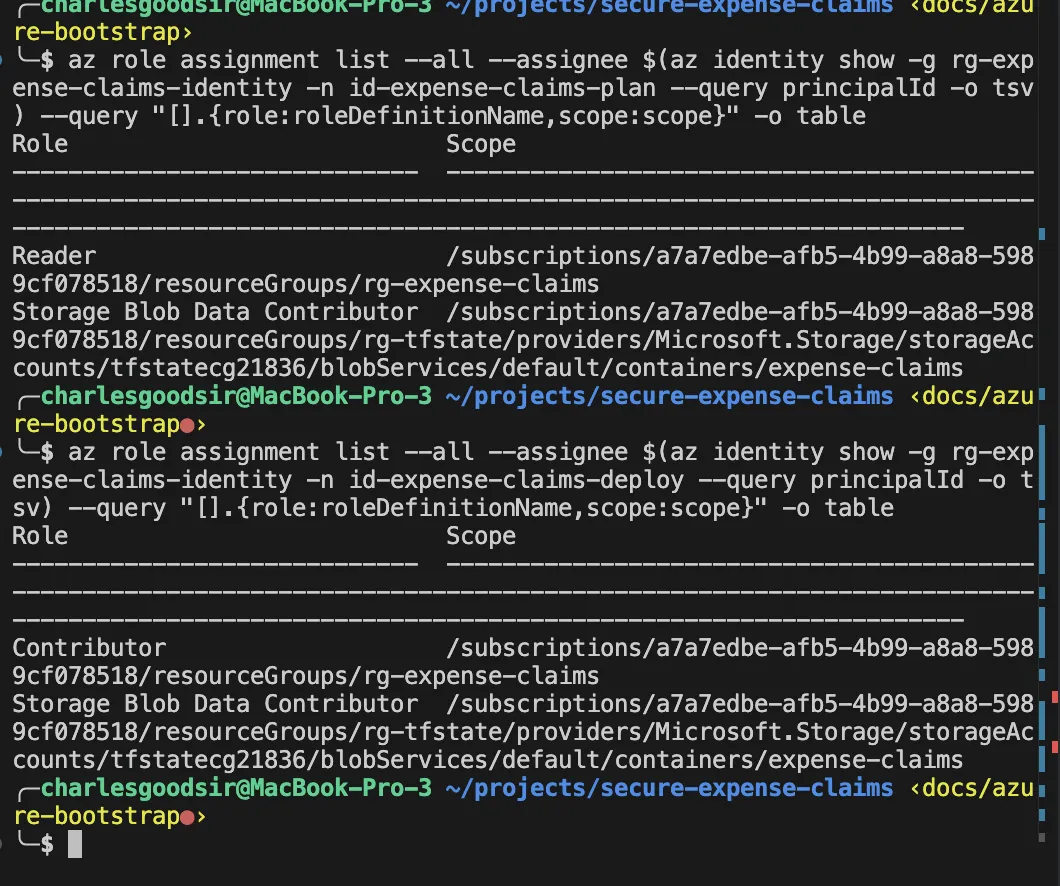
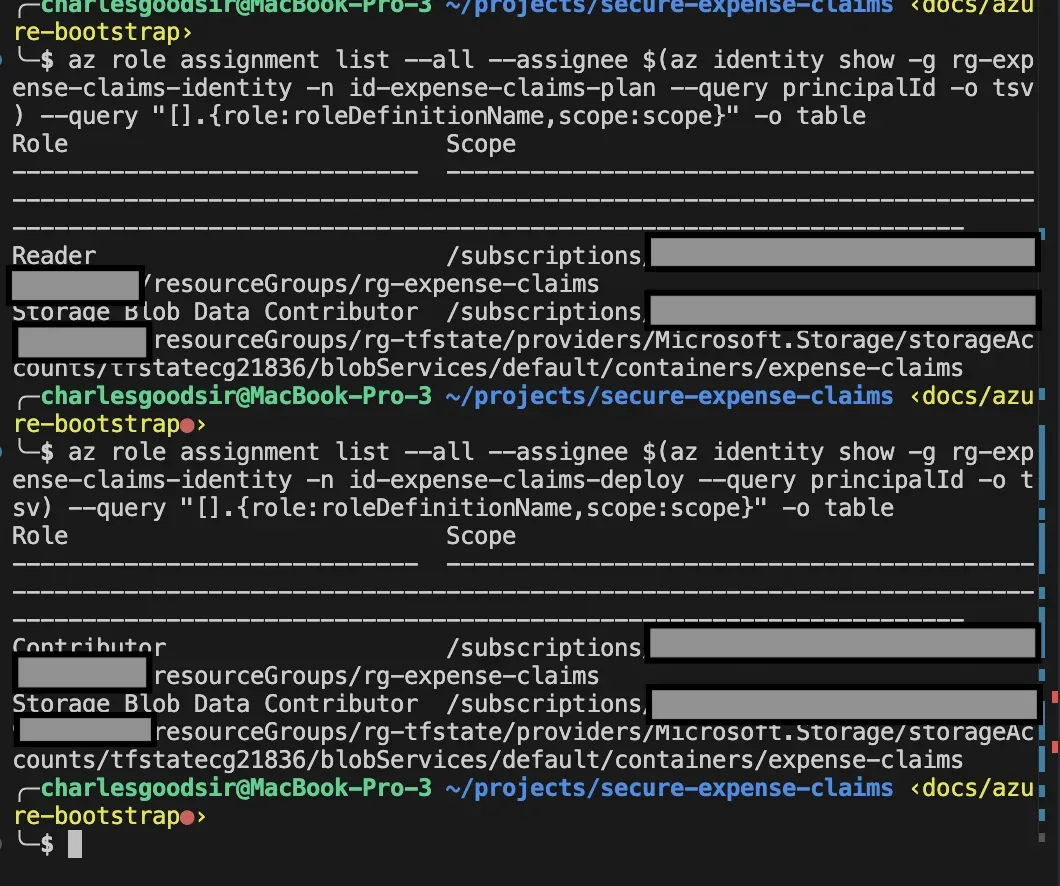
Run Prettier

diff --git a/src/data/cyberDiaryEntries.ts b/src/data/cyberDiaryEntries.ts
@@ -52,9 +52,15 @@ export const cyberDiaryEntries: DiaryEntry[] = [
       "Phase 2 puts the app in Azure, so the pipeline needed a way in without stored secrets. GitHub Actions signs in with OIDC as one of two managed identities. The plan identity can read the resource group and read Terraform state, and only pull requests and main can use it. The deploy identity can change things, but Azure only issues it a token for a job running in a GitHub environment that waits for my approval. Both identities live in a separate resource group the pipeline has no rights over, so it can't change its own access.",
       "The first plan failed with AADSTS700213. My repo uses GitHub's immutable OIDC subjects, which include the numeric owner and repo IDs, and I had federated the name-only format. I kept the stricter format: if I delete or rename the repo, someone else can claim its name, but GitHub never reuses the ID. The second failure came from the read-only identity working as designed. With no state yet, terraform init tries to write an empty one, and the plan identity has no write access. I seeded the state once with a temporary role on my own account, removed it afterwards, and PR plans now run without taking a lock.",
       "Then I tested the boundary. The deploy identity's client ID is a plain variable in a public repo, so I pointed the PR plan job at it on purpose. Azure refused with AADSTS700213 because a pull request isn't the approved environment, and the PR couldn't merge. I also caught myself out: a PR merged with its Terraform plan still red, because I'd turned on auto-merge and the new checks weren't required yet. Both are required now.",
-      "Assume anyone can read your identifiers. Your access depends on what the other side checks before it issues a token, so test that by asking for more than you should get.",
+      'Assume anyone can read your identifiers. Your access depends on what the other side checks before it issues a token, so test that by asking for more than you should get.',
     ],
-    tools: ['GitHub Actions', 'Terraform', 'Azure', 'OIDC', 'Managed identities'],
+    tools: [
+      'GitHub Actions',
+      'Terraform',
+      'Azure',
+      'OIDC',
+      'Managed identities',
+    ],
     tags: [
       'Secure Expense Claims',
       'CI/CD pipeline',

diff --git a/src/data/owaspTop10.ts b/src/data/owaspTop10.ts
@@ -315,7 +315,8 @@ export const owaspTop10: OwaspRisk[] = [
         entryId: 'secure-expense-claims-entry-19-compose-phase-1',
       },
       {
-        label: 'Expense claims: a pipeline identity that can only do what it was given',
+        label:
+          'Expense claims: a pipeline identity that can only do what it was given',
         entryId: 'secure-expense-claims-entry-20-pipeline-identity-azure',
       },
     ],
